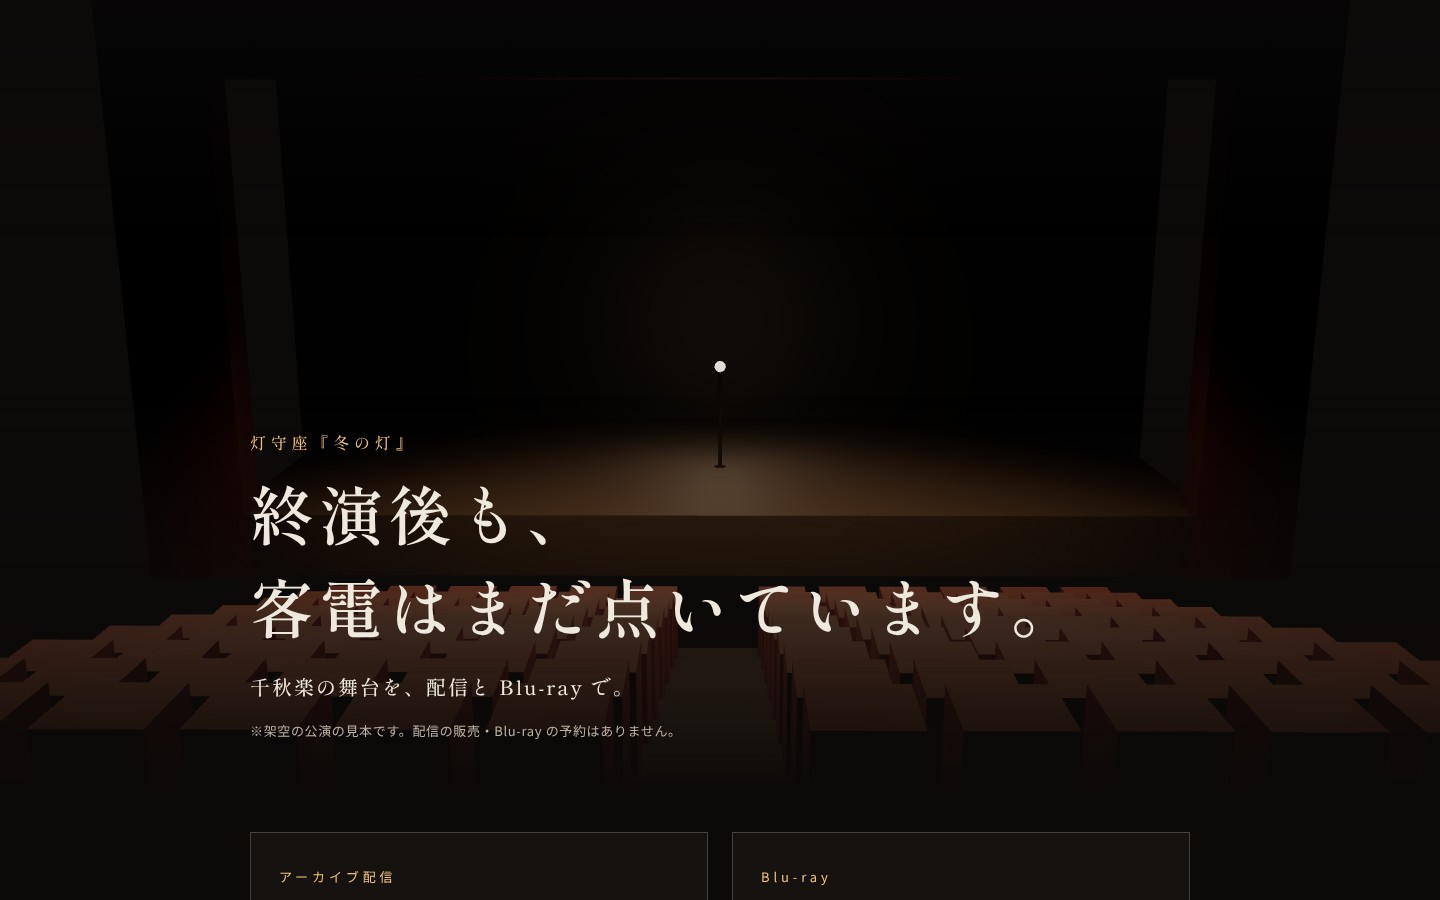
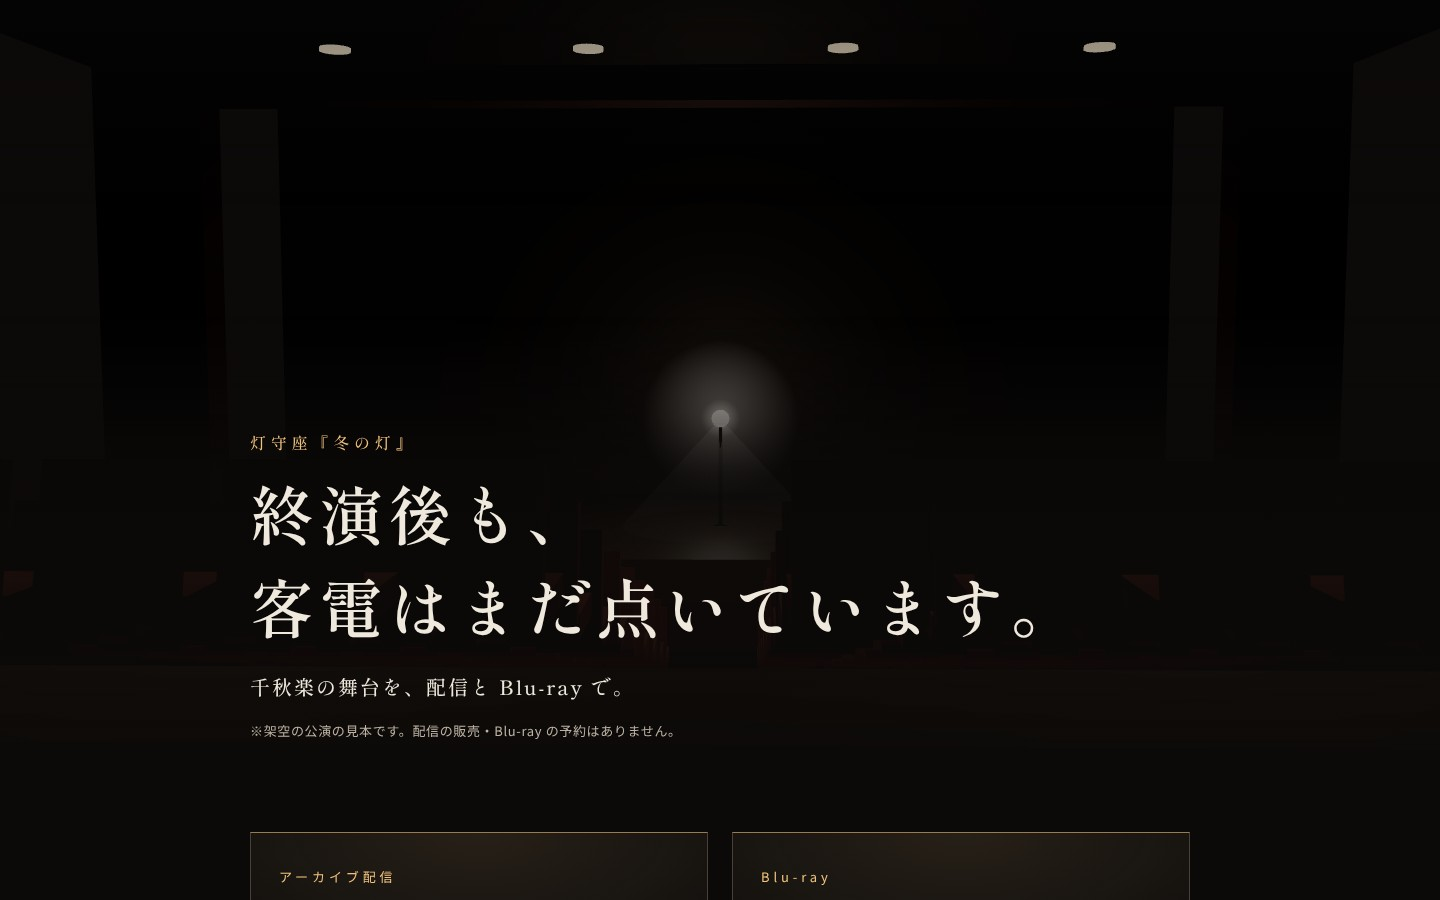
S02-07：1回目審査（5.50、fix）の指摘を反映（天井の客電の灯具、一灯のハロと光の柱、読み込み後に客電を落として一灯を残す一拍、スクロールで寄るカメラ、座面と背もたれの座席、文字の下地、税込を facts に、括弧内で改行させない）
Claude-Session: https://claude.ai/code/session_01BwmUGTgfPEj1Tu5124aDtq

diff --git a/studio/projects/S02-07-archive/site/app.js b/studio/projects/S02-07-archive/site/app.js
@@ -3,13 +3,14 @@ import { F } from './data.js';
 const reduce = matchMedia('(prefers-reduced-motion: reduce)').matches;
 const $ = id => document.getElementById(id);
 const jd = (iso, wd) => { const [y, m, d] = iso.split('-').map(Number); return `<time datetime="${iso}">${y}年${m}月${d}日（${wd}）</time>`; };
-const yen = n => `¥${n.toLocaleString('ja-JP')}<small>税込</small>`;
+const yen = (n, tax) => `¥${n.toLocaleString('ja-JP')}<small>${tax}</small>`;
+const nw = t => t.replace(/（[^）]+）/g, m => `<span class="nw">${m}</span>`);
 $('s-period').innerHTML = `${jd(F.stream.from, F.stream.from_wd)}〜<br>${jd(F.stream.to, F.stream.to_wd)} ${F.stream.until}まで`;
-$('s-rec').innerHTML = `${jd('2026-12-20', '日')} 千秋楽公演<br>（${F.running_time}）`;
-$('s-price').innerHTML = yen(F.stream.price_yen);
+$('s-rec').innerHTML = `${jd(F.closing_iso, F.closing_wd)} 千秋楽公演・${F.running_time}`;
+$('s-price').innerHTML = yen(F.stream.price_yen, F.stream.tax);
 $('b-date').innerHTML = jd(F.bluray.release, F.bluray.release_wd);
-for (const c of F.bluray.contents) { const li = document.createElement('li'); li.textContent = c; $('b-list').append(li); }
-$('b-price').innerHTML = yen(F.bluray.price_yen);
+for (const c of F.bluray.contents) { const li = document.createElement('li'); li.innerHTML = nw(c.replace(/</g, '&lt;')); $('b-list').append(li); }
+$('b-price').innerHTML = yen(F.bluray.price_yen, F.bluray.tax);
 document.querySelectorAll('.cta').forEach(b => b.addEventListener('click', () => { $('note-' + b.dataset.id).hidden = false; }));
 
 // 終演後の劇場：客席の後ろから舞台を見る。客電（暖色）が点き、舞台の中央に一灯（ゴーストライト）
@@ -23,35 +24,55 @@ const cv = $('house');
   const cam = new THREE.PerspectiveCamera(36, 1, .1, 80);
   const mat = c => new THREE.MeshStandardMaterial({ color: c, roughness: .8 });
   const add = (g, m, x, y, z) => { const o = new THREE.Mesh(g, m); o.position.set(x, y, z); o.castShadow = o.receiveShadow = true; scene.add(o); return o; };
-  add(new THREE.BoxGeometry(14, .9, 6), mat(0x2a221c), 0, .45, -6);           // 舞台
+  add(new THREE.BoxGeometry(14, .9, 6), new THREE.MeshStandardMaterial({ color: 0x2a221c, roughness: .45 }), 0, .45, -6);           // 舞台
   add(new THREE.BoxGeometry(16, 9, .3), mat(0x16110e), 0, 4.5, -9.2);          // 奥の壁
   for (const s of [-1, 1]) add(new THREE.BoxGeometry(1.4, 8, .6), mat(0x3a1414), s * 7.4, 4, -3.2); // プロセニアム
   add(new THREE.BoxGeometry(16.2, 1.4, .6), mat(0x3a1414), 0, 7.6, -3.2);
   // 客席（段ごとに上がる）
-  const seatG = new THREE.BoxGeometry(.55, .9, .5), seatM = mat(0x6a2426);
-  const seats = new THREE.InstancedMesh(seatG, seatM, 12 * 9); let k = 0; const o = new THREE.Object3D();
-  for (let row = 0; row < 9; row++) for (let c = 0; c < 12; c++) { o.position.set((c - 5.5) * .72 + (c < 6 ? -.4 : .4), .45 + row * .32, row * 1.0); o.updateMatrix(); seats.setMatrixAt(k++, o.matrix); }
-  seats.castShadow = seats.receiveShadow = true; scene.add(seats);
+  const seatM = new THREE.MeshStandardMaterial({ color: 0x5a1e20, roughness: .95 });
+  const cush = new THREE.InstancedMesh(new THREE.BoxGeometry(.55, .12, .46), seatM, 108), back = new THREE.InstancedMesh(new THREE.BoxGeometry(.55, .58, .09), seatM, 108);
+  let k = 0; const o = new THREE.Object3D();
+  for (let row = 0; row < 9; row++) for (let c = 0; c < 12; c++) { const x = (c - 5.5) * .72 + (c < 6 ? -.4 : .4), y = row * .32, z = row * 1.0;
+    o.rotation.set(0, 0, 0); o.position.set(x, y + .44, z); o.updateMatrix(); cush.setMatrixAt(k, o.matrix);
+    o.position.set(x, y + .76, z + .26); o.rotation.set(-.2, 0, 0); o.updateMatrix(); back.setMatrixAt(k, o.matrix); k++; }
+  for (const m of [cush, back]) { m.castShadow = m.receiveShadow = true; scene.add(m); }
   for (let row = 0; row < 9; row++) add(new THREE.BoxGeometry(14, .32, 1.0), mat(0x1c1612), 0, row * .32 - .16 + .0, row * 1.0);
   // ゴーストライト：スタンドに裸電球一つ
   add(new THREE.CylinderGeometry(.03, .03, 1.6, 12), mat(0x222222), 0, 1.7, -5.6);
-  const bulb = new THREE.Mesh(new THREE.SphereGeometry(.09, 20, 14), new THREE.MeshBasicMaterial({ color: 0xfff2dc })); bulb.position.set(0, 2.55, -5.6); scene.add(bulb);
+  const bulb = new THREE.Mesh(new THREE.SphereGeometry(.09, 20, 14), new THREE.MeshBasicMaterial({ color: 0xfff2dc })); bulb.scale.setScalar(1.5); bulb.position.set(0, 2.55, -5.6); scene.add(bulb);
+  const hc = document.createElement('canvas'); hc.width = hc.height = 128; const hg = hc.getContext('2d'); const gr = hg.createRadialGradient(64, 64, 0, 64, 64, 64);
+  gr.addColorStop(0, 'rgba(255,242,220,.9)'); gr.addColorStop(.25, 'rgba(255,230,200,.35)'); gr.addColorStop(1, 'rgba(255,230,200,0)'); hg.fillStyle = gr; hg.fillRect(0, 0, 128, 128);
+  const halo = new THREE.Sprite(new THREE.SpriteMaterial({ map: new THREE.CanvasTexture(hc), blending: THREE.AdditiveBlending, depthWrite: false, transparent: true }));
+  halo.scale.set(2.4, 2.4, 1); halo.position.set(0, 2.55, -5.6); scene.add(halo);
+  const shaft = new THREE.Mesh(new THREE.ConeGeometry(2.2, 2.4, 40, 1, true), new THREE.MeshBasicMaterial({ color: 0xfff0d8, transparent: true, opacity: .05, blending: THREE.AdditiveBlending, depthWrite: false, side: THREE.DoubleSide }));
+  shaft.position.set(0, 1.35, -5.6); scene.add(shaft);
+  const ceil = add(new THREE.BoxGeometry(16, .2, 14), mat(0x14100d), 0, 7.4, 2.5); ceil.castShadow = false;
+  const fixM = new THREE.MeshBasicMaterial({ color: 0x2a1c10 }); const fixtures = [];
+  for (let i = 0; i < 4; i++) for (let j = 0; j < 3; j++) { const d = new THREE.Mesh(new THREE.CylinderGeometry(.18, .18, .05, 24), fixM); d.position.set(-4.5 + i * 3, 7.28, j * 2.6 - 1.6); scene.add(d); fixtures.push(d); }
   const ghost = new THREE.PointLight(0xfff0d8, 0, 12, 1.6); ghost.position.copy(bulb.position); ghost.castShadow = true; scene.add(ghost);
   // 客電：天井の暖かい灯（ダウンライト）を並べる
   const house = [];
-  for (let i = 0; i < 4; i++) { const s = new THREE.SpotLight(0xffc98a, 0, 18, .9, .9, 1.2); s.position.set((i % 2 ? 3.5 : -3.5), 9, i < 2 ? 1 : 6); s.target.position.set(s.position.x * .6, 0, s.position.z); scene.add(s, s.target); house.push(s); }
+  for (let i = 0; i < 4; i++) { const s = new THREE.SpotLight(0xffc98a, 0, 18, .9, .9, 1.2); s.position.set((i % 2 ? 3.5 : -3.5), 7.1, i < 2 ? 0 : 5); s.target.position.set(s.position.x * .6, 0, s.position.z); scene.add(s, s.target); house.push(s); }
   scene.add(new THREE.HemisphereLight(0x4a3a2c, 0x0c0a09, .35));
   const fit = () => { const w = cv.clientWidth, h = cv.clientHeight; r.setSize(w, h, false); cam.aspect = w / h; cam.fov = w < h ? 52 : 36; cam.updateProjectionMatrix(); };
   fit(); addEventListener('resize', fit);
-  const t0 = performance.now(); let visible = true;
+  const t0 = performance.now(); let visible = true, sp = 0;
   new IntersectionObserver(es => { visible = es[0].isIntersecting; if (visible && reduce) draw(performance.now()); }).observe(cv);
   const draw = now => {
     const t = (now - t0) / 1000;
-    const up = reduce ? 1 : 1 - Math.exp(-Math.max(0, t - .2) * 2.2);       // 客電がゆっくり上がる
-    house.forEach(s => s.intensity = 140 * up);
+    const e = u => u < .5 ? 4 * u * u * u : 1 - Math.pow(-2 * u + 2, 3) / 2;
+    const cl = v => Math.min(1, Math.max(0, v));
+    // 客電が上がり（0.2〜2.0秒）、3.0秒から1.6秒かけて35%へ落ちて一灯が残る（終演後の一拍）
+    const up = reduce ? .35 : e(cl((t - .2) / 1.8)) * (1 - .65 * e(cl((t - 3) / 1.6)));
+    house.forEach(s => s.intensity = 160 * up);
+    const fu = Math.max(up, reduce ? 1 : .7 * Math.min(1, t / 2)); fixM.color.setRGB(.16 + .84 * fu, .11 + .66 * fu, .06 + .42 * fu);
     ghost.intensity = 12 + (reduce ? 0 : .6 * Math.sin(t * 7.3) * Math.sin(t * 2.1));
-    const a = reduce ? 0 : Math.sin(t * .05) * .05;
-    const pz = cam.aspect < 1 ? 9.5 : 13.5; cam.position.set(Math.sin(a) * 3, cam.aspect < 1 ? 5.0 : 6.2, pz); cam.lookAt(0, cam.aspect < 1 ? .6 : 2.2, -5);
+    const p = reduce ? 0 : cl(scrollY / Math.max(1, cv.clientHeight));
+    sp += (p - sp) * .08;
+    const sx = reduce ? 0 : .6 * Math.sin(t * Math.PI * 2 / 14);
+    const port = cam.aspect < 1;
+    cam.position.set(sx, (port ? 4.6 : 4.4) - 1.2 * sp, (port ? 9.5 : 13.5) - 3 * sp);
+    cam.lookAt(0, (port ? 1.6 : 3.0) - .4 * sp, -5 - .6 * sp);
     r.render(scene, cam);
   };
   if (reduce) { draw(performance.now()); addEventListener('resize', () => draw(performance.now())); return; }

diff --git a/studio/projects/S02-07-archive/site/style.css b/studio/projects/S02-07-archive/site/style.css
@@ -14,20 +14,20 @@
 body { margin: 0; background: var(--bg); color: var(--ink); font: 400 16px/1.9 var(--sans); letter-spacing: .04em; line-break: strict; word-break: auto-phrase; -webkit-font-smoothing: antialiased; }
 .hero { position: relative; min-height: 88svh; display: grid; align-items: end; overflow: hidden; }
 #house { position: absolute; inset: 0; width: 100%; height: 100%; display: block; }
-.hero::after { content: ""; position: absolute; inset: 0; pointer-events: none; background: linear-gradient(180deg, rgba(12,10,9,.55) 0%, rgba(12,10,9,0) 30%, rgba(12,10,9,0) 50%, rgba(12,10,9,.8) 78%, var(--bg) 100%); }
+.hero::after { content: ""; position: absolute; inset: 0; pointer-events: none; background: linear-gradient(180deg, rgba(12,10,9,.4) 0%, rgba(12,10,9,0) 26%, rgba(12,10,9,0) 40%, rgba(12,10,9,.82) 60%, var(--bg) 100%); }
 .hero-in { position: relative; z-index: 1; width: 100%; max-width: 980px; margin: 0 auto; padding: 0 max(20px, env(safe-area-inset-right, 0px)) 48px max(20px, env(safe-area-inset-left, 0px)); }
 .kicker { margin: 0 0 12px; font: 500 16px/1.4 var(--mincho); letter-spacing: .3em; color: var(--amber); }
 h1 { margin: 0; font: 600 clamp(32px, 7.4vw, 64px)/1.45 var(--mincho); letter-spacing: .08em; text-wrap: balance; }
 .lead { margin: 18px 0 0; font: 500 clamp(17px, 2.4vw, 20px)/1.8 var(--mincho); letter-spacing: .1em; }
 .fic { margin: 14px 0 0; font-size: 13px; color: var(--sub); }
 .offers { max-width: 980px; margin: 0 auto; padding: 40px max(20px, env(safe-area-inset-right, 0px)) 0 max(20px, env(safe-area-inset-left, 0px)); display: grid; grid-template-columns: 1fr 1fr; gap: 24px; }
-.offer { min-width: 0; background: var(--card); border: 1px solid var(--line); padding: 32px 28px 28px; display: flex; flex-direction: column; }
+.offer { min-width: 0; background: radial-gradient(60% 120px at 50% 0, rgba(241,194,125,.08), transparent), var(--card); border: 1px solid var(--line); border-top-color: rgba(241,194,125,.6); padding: 32px 28px 28px; display: flex; flex-direction: column; }
 .tag { margin: 0 0 6px; font-size: 13px; letter-spacing: .3em; color: var(--amber); }
-h2 { margin: 0 0 22px; font: 600 28px/1.4 var(--mincho); letter-spacing: .12em; }
+h2 { margin: 0 0 22px; font: 600 32px/1.4 var(--mincho); letter-spacing: .12em; }
 dl { margin: 0 0 24px; flex: 1; }
 dl div { display: grid; grid-template-columns: 5.5em 1fr; gap: 12px; padding: 12px 0; border-top: 1px solid var(--line); }
 dt { font-size: 14px; color: var(--sub); }
-dd { margin: 0; font-size: 16px; line-height: 1.8; min-width: 0; }
+dd { margin: 0; font-size: 16px; line-height: 1.8; min-width: 0; font-feature-settings: "halt"; }
 dd ul { margin: 0; padding-left: 1.1em; }
 .yen { font: 500 26px/1.3 var(--mincho); letter-spacing: .04em; font-variant-numeric: tabular-nums; }
 .yen small { font-size: 14px; color: var(--sub); margin-left: .4em; font-family: var(--sans); }

diff --git a/studio/projects/S02-07-archive/site/data.js b/studio/projects/S02-07-archive/site/data.js
@@ -1,2 +1,2 @@
 // facts.json から生成（手で書き換えない）
-export const F = {"_note": "すべて架空。S02-06（パンフレット）・S09-07（残席）と同じ公演の終演後。販売・予約は行わない。カタログの「星屑通り製作委員会」は実在の舞台『星屑の町』と紛らわしいため使わない", "troupe": "灯守座", "title": "冬の灯", "closing_day": "2026-12-20（日）", "stream": {"from": "2026-12-27", "from_wd": "日", "to": "2027-01-10", "to_wd": "日", "until": "23:59", "price_yen": 3500, "recorded": "2026-12-20 千秋楽公演"}, "bluray": {"release": "2027-04-21", "release_wd": "水", "price_yen": 7800, "contents": ["本編（約1時間50分）", "千秋楽カーテンコール", "舞台美術の模型と照明の解説（約20分）"]}, "running_time": "約1時間50分"};
+export const F = {"_note": "すべて架空。S02-06（パンフレット）・S09-07（残席）と同じ公演の終演後。販売・予約は行わない。カタログの「星屑通り製作委員会」は実在の舞台『星屑の町』と紛らわしいため使わない", "troupe": "灯守座", "title": "冬の灯", "closing_day": "2026-12-20（日）", "stream": {"from": "2026-12-27", "from_wd": "日", "to": "2027-01-10", "to_wd": "日", "until": "23:59", "price_yen": 3500, "recorded": "2026-12-20 千秋楽公演", "tax": "税込"}, "bluray": {"release": "2027-04-21", "release_wd": "水", "price_yen": 7800, "contents": ["本編（約1時間50分）", "千秋楽カーテンコール", "舞台美術の模型と照明の解説（約20分）"], "tax": "税込"}, "running_time": "約1時間50分", "closing_iso": "2026-12-20", "closing_wd": "日"};
